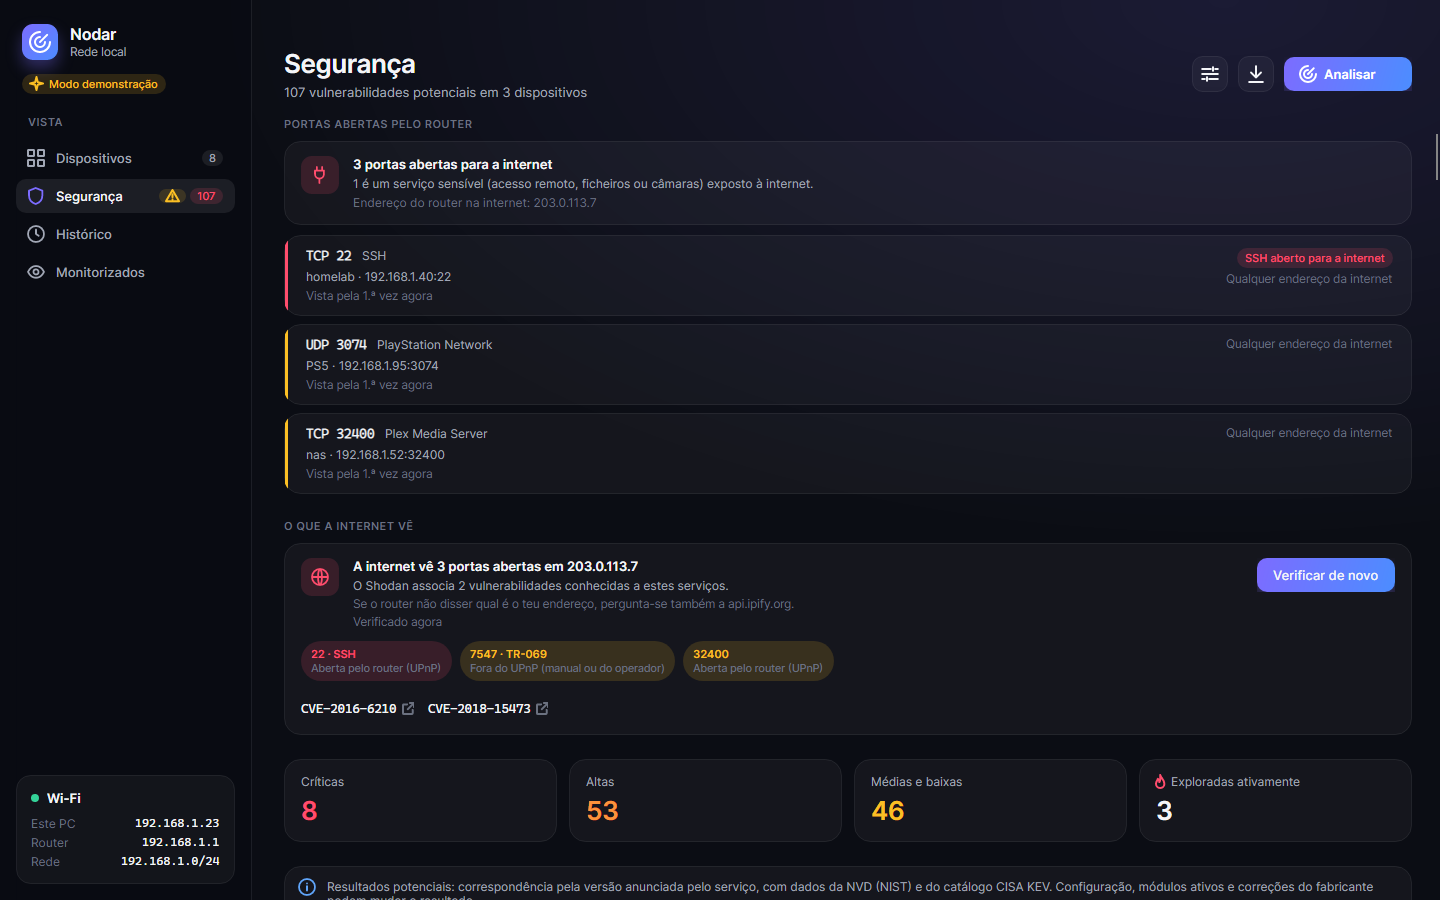
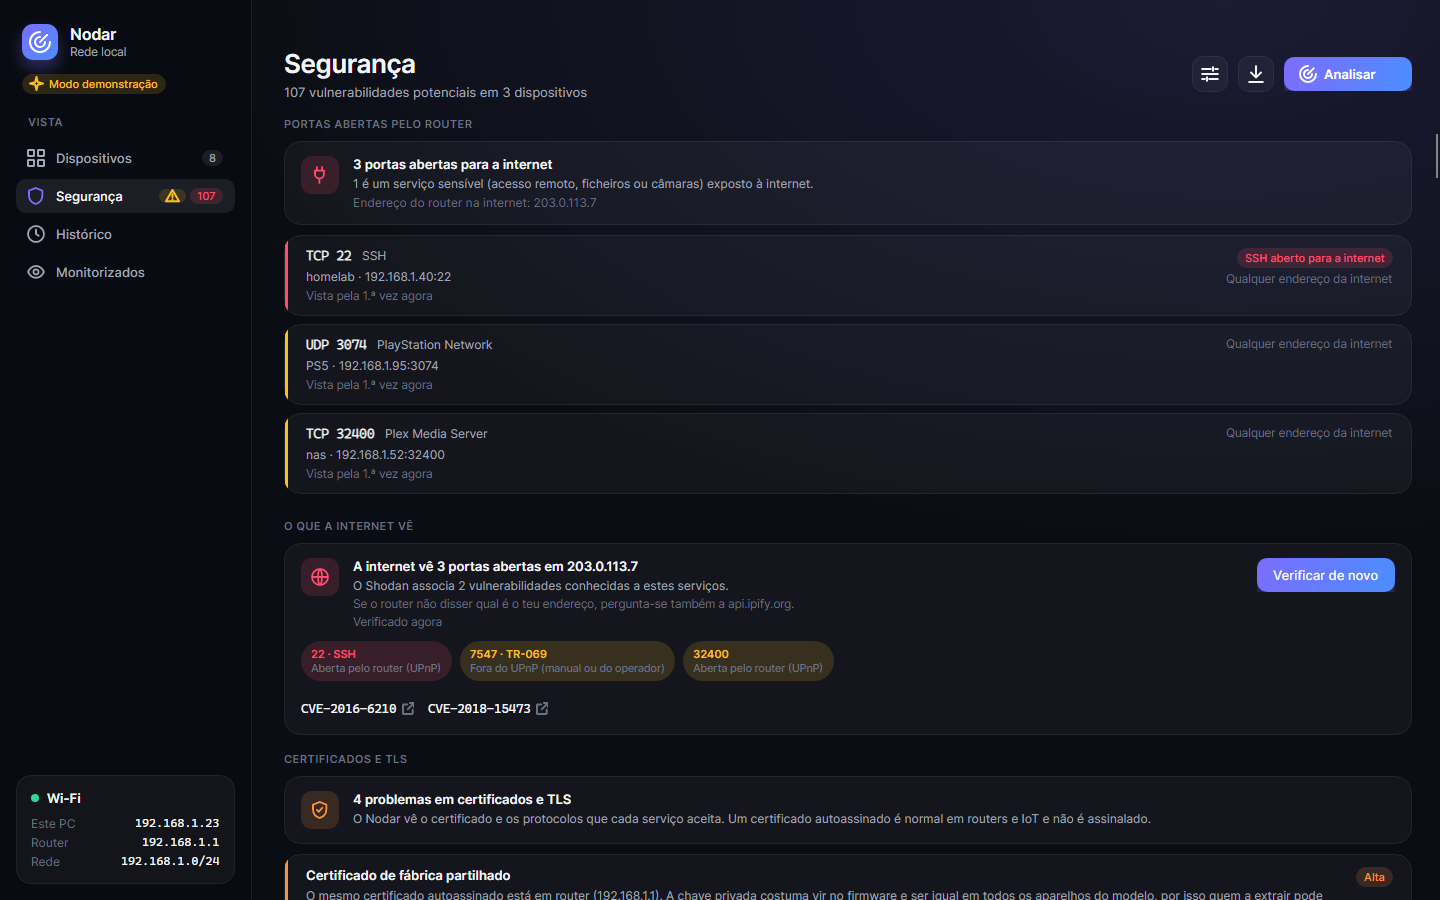
docs: certificados e TLS no README e screenshots
Funcionalidade, privacidade, estrutura e limitações (a deteção de protocolos
antigos só diz o que o servidor aceita) em português e inglês.

Changed region(s): [[0.1875, 0.9644, 0.9688, 1.0], [0.1875, 0.84, 0.8125, 0.9333], [0.8125, 0.84, 0.9062, 0.8711]]

diff --git a/README.md b/README.md
@@ -52,6 +52,7 @@ Aplicação para Windows feita em C# / .NET 9, com interface em [Avalonia](https
 - **Deteção de serviços** por leitura de banners, incluindo HTTPS (TLS) e a versão do servidor DNS (`version.bind`). As sondas nunca enviam credenciais nem tentativas de login.
 - **Deteção de sistema operativo** por fingerprint TCP/IP (TTL, window size, MSS, flag DF), com nível de confiança.
 - **Verificação de vulnerabilidades conhecidas** com dados oficiais da [NVD](https://nvd.nist.gov/) (NIST) e do catálogo [CISA KEV](https://www.cisa.gov/known-exploited-vulnerabilities-catalog). Ver [Como funciona a verificação de vulnerabilidades](#como-funciona-a-verificação-de-vulnerabilidades).
+- **Certificados e TLS**: nos serviços TLS (HTTPS, IMAPS…) lê o certificado e o protocolo, e assinala certificados expirados ou a expirar, chaves e assinaturas fracas, protocolos antigos que o servidor ainda aceita (SSL 3.0, TLS 1.0 e 1.1) e o mesmo certificado autoassinado de fábrica em vários dispositivos. Um certificado autoassinado, sozinho, não é assinalado: é o normal em routers e IoT.
 - **Portas abertas pelo router (UPnP)**: pergunta ao router, com consultas anónimas e só de leitura, que portas abriu para a internet, para que dispositivo e desde quando. Destaca o acesso remoto, a partilha de ficheiros, as bases de dados e as câmaras expostos, e avisa quando aparece uma porta nova (as temporárias de jogos e chamadas só avisam dentro da app). Pode ser desligado nas Opções.
 - **O que a internet vê**: a pedido (botão na página *Segurança*), consulta o [Shodan InternetDB](https://internetdb.shodan.io/) para mostrar as portas abertas e os CVEs que a internet associa ao teu endereço público, e quais dessas portas o router abriu por UPnP. Nunca corre sozinha. Ver [Privacidade e rede](#privacidade-e-rede).
 
@@ -145,6 +146,7 @@ Cada serviço mostra o estado da verificação: *verificado*, *verificado com ca
 - O catálogo KEV é descarregado inteiro, sem nenhum dado teu.
 - Para identificar fabricantes, o Nodar descarrega o registo público do IEEE (`standards-oui.ieee.org`) uma vez por mês. Nenhum dado teu é enviado.
 - As perguntas ARP, Bonjour/mDNS, SSDP e NetBIOS ficam só na tua rede local. O descritor UPnP só é lido do próprio dispositivo que o anunciou, por HTTP na rede local, com limites de tamanho e tempo e sem processar DTD (proteção contra XXE).
+- A inspeção de TLS fica na rede local: um handshake sem validar a cadeia e sem enviar dados, mais três `ClientHello` (SSL 3.0, TLS 1.0 e 1.1) só para ver se o servidor responde, sem troca de chaves. Faz parte da opção *Serviços e versões*.
 - A leitura UPnP do router (portas abertas e endereço externo) é uma consulta anónima e só de leitura ao próprio router, na rede local: só se fala com o IP do router, nunca se altera nada e não há credenciais. Pode ser desligada nas Opções.
 - **"O que a internet vê"** só corre quando carregas no botão, e é a única função que envia algo para fora do PC: o teu **endereço público**, ao Shodan InternetDB (gratuito, sem conta). O endereço vem do próprio router; se ele não o disser, pergunta-se também a `api.ipify.org`. Se o endereço do router não for público (CGNAT ou duplo NAT), não se consulta nada. Os dados do Shodan são da última vez que ele passou pelo teu endereço e podem ter dias.
 - Os dados ficam em cache em `%LOCALAPPDATA%\Nodar\cache\`: a NVD durante 3 dias e o KEV durante 1. Sem internet, é usada a cache existente e a app avisa.
@@ -183,6 +185,7 @@ src/Nodar.Core/                      # Lógica, sem interface gráfica
     ├── NeighborDiscovery.cs         # Descoberta ARP (tabela de vizinhos do Windows)
     ├── MdnsProbe.cs                 # Bonjour/mDNS: nome e modelo
     ├── SsdpProbe.cs                 # SSDP/UPnP: nome, fabricante, modelo, pilha UPnP
+    ├── TlsInspector.cs / TlsAnalyzer.cs  # Certificado, protocolo e protocolos antigos; problemas daí
     ├── UpnpGatewayClient.cs         # Portas que o router abriu (UPnP IGD, só leitura)
     ├── InternetExposureService.cs   # O que a internet vê do endereço público (Shodan InternetDB)
     ├── ExposureAdvice.cs            # Serviços sensíveis e quando uma porta merece notificação
@@ -227,6 +230,7 @@ Os dados locais (histórico, lista de monitorização, MAC do router, portas abe
 - iPhones e Androids podem **trocar o endereço Wi-Fi privado** (por exemplo, com "endereço rotativo" no iOS 18). Quando isso acontece, aparecem como um dispositivo novo.
 - A deteção de SO é **heurística** e pode falhar, sobretudo com dispositivos IoT.
 - A verificação de vulnerabilidades depende do banner. Muitos dispositivos (routers, câmaras, IoT) não anunciam versão. Uma correspondência por versão **não confirma** que o dispositivo está vulnerável. Não substitui uma auditoria de segurança a sério.
+- A deteção de protocolos TLS antigos só diz o que o servidor **aceita**: se não aparecer nada, não prova que os recusa (um servidor que não responde a tempo conta como "não aceita"). Só se inspecionam as portas 443, 8443, 993 e 995.
 - As descrições dos CVEs vêm da NVD, em inglês.
 - Os avisos dependem da atualização automática: com ela desligada, o Nodar na bandeja não volta a analisar a rede sozinho.
 

diff --git a/README.en.md b/README.en.md
@@ -52,6 +52,7 @@ A Windows app built with C# / .NET 9 and an [Avalonia](https://avaloniaui.net/) 
 - **Service detection** from banners, including HTTPS (TLS) and the DNS server version (`version.bind`). Probes never send credentials or login attempts.
 - **Operating system detection** from the TCP/IP fingerprint (TTL, window size, MSS, DF flag), with a confidence level.
 - **Known vulnerability checks** with official data from the [NVD](https://nvd.nist.gov/) (NIST) and the [CISA KEV](https://www.cisa.gov/known-exploited-vulnerabilities-catalog) catalog. See [How vulnerability checking works](#how-vulnerability-checking-works).
+- **Certificates and TLS**: on TLS services (HTTPS, IMAPS…) it reads the certificate and protocol, and flags expired or expiring certificates, weak keys and signatures, obsolete protocols the server still accepts (SSL 3.0, TLS 1.0 and 1.1), and the same factory self-signed certificate on several devices. A self-signed certificate on its own isn't flagged: it's normal on routers and IoT.
 - **Ports opened by the router (UPnP)**: asks the router, with anonymous read-only queries, which ports it opened to the internet, for which device and since when. It highlights exposed remote access, file sharing, databases and cameras, and warns when a new port appears (the temporary ones from games and calls only warn inside the app). It can be turned off in the Options.
 - **What the internet sees**: on request (a button on the *Security* page), it queries the [Shodan InternetDB](https://internetdb.shodan.io/) to show the open ports and CVEs the internet links to your public address, and which of those ports the router opened through UPnP. It never runs by itself. See [Privacy and network](#privacy-and-network).
 
@@ -144,6 +145,7 @@ Each service shows its check status: *checked*, *checked with cached data*, *ver
 - Only the **product identifier** is sent to the NVD (e.g. `cpe:2.3:a:openbsd:openssh`). **No IPs, MACs, hostnames or detected versions are sent.** Version matching happens on your PC.
 - The KEV catalog is downloaded in full, with none of your data.
 - To identify manufacturers, Nodar downloads the public IEEE registry (`standards-oui.ieee.org`) once a month. None of your data is sent.
+- TLS inspection stays on the local network: one handshake that doesn't validate the chain and sends no data, plus three `ClientHello`s (SSL 3.0, TLS 1.0 and 1.1) just to see whether the server answers, with no key exchange. It's part of the *Services and versions* option.
 - Reading the router's UPnP (open ports and external address) is an anonymous, read-only query to the router itself, on the local network: only the router's IP is contacted, nothing is ever changed and there are no credentials. It can be turned off in the Options.
 - **"What the internet sees"** only runs when you press the button, and it's the only feature that sends something off your PC: your **public address**, to the Shodan InternetDB (free, no account). The address comes from the router itself; if it doesn't say, `api.ipify.org` is asked as well. If the router's address isn't public (CGNAT or double NAT), nothing is looked up. Shodan's data is from its last visit to your address and may be days old.
 - ARP, Bonjour/mDNS, SSDP and NetBIOS queries stay on your local network. The UPnP descriptor is only read from the device that announced it, over HTTP on the local network, with size and time limits and without DTD processing (XXE protection).
@@ -183,6 +185,7 @@ src/Nodar.Core/                      # Logic, no UI
     ├── NeighborDiscovery.cs         # ARP discovery (Windows neighbor table)
     ├── MdnsProbe.cs                 # Bonjour/mDNS: name and model
     ├── SsdpProbe.cs                 # SSDP/UPnP: name, manufacturer, model, UPnP stack
+    ├── TlsInspector.cs / TlsAnalyzer.cs  # Certificate, protocol and obsolete protocols; the findings from them
     ├── UpnpGatewayClient.cs         # Ports the router opened (UPnP IGD, read-only)
     ├── InternetExposureService.cs   # What the internet sees of the public address (Shodan InternetDB)
     ├── ExposureAdvice.cs            # Sensitive services and when a port deserves a notification
@@ -227,6 +230,7 @@ Local data (history, watchlist, router MAC, known open ports, preferences and vu
 - iPhones and Android phones can **rotate their private Wi-Fi address** (for example with "rotating address" on iOS 18). When that happens, they show up as a new device.
 - OS detection is **heuristic** and can be wrong, especially for IoT devices.
 - Vulnerability checking depends on the banner. Many devices (routers, cameras, IoT) don't announce a version. A version match **doesn't confirm** the device is vulnerable. It's not a substitute for a proper security audit.
+- Obsolete-TLS detection only tells you what the server **accepts**: finding nothing doesn't prove it refuses them (a server that doesn't answer in time counts as "doesn't accept"). Only ports 443, 8443, 993 and 995 are inspected.
 - CVE descriptions come from the NVD, in English.
 - Notifications depend on auto refresh: with it off, Nodar in the tray won't rescan the network on its own.
 
